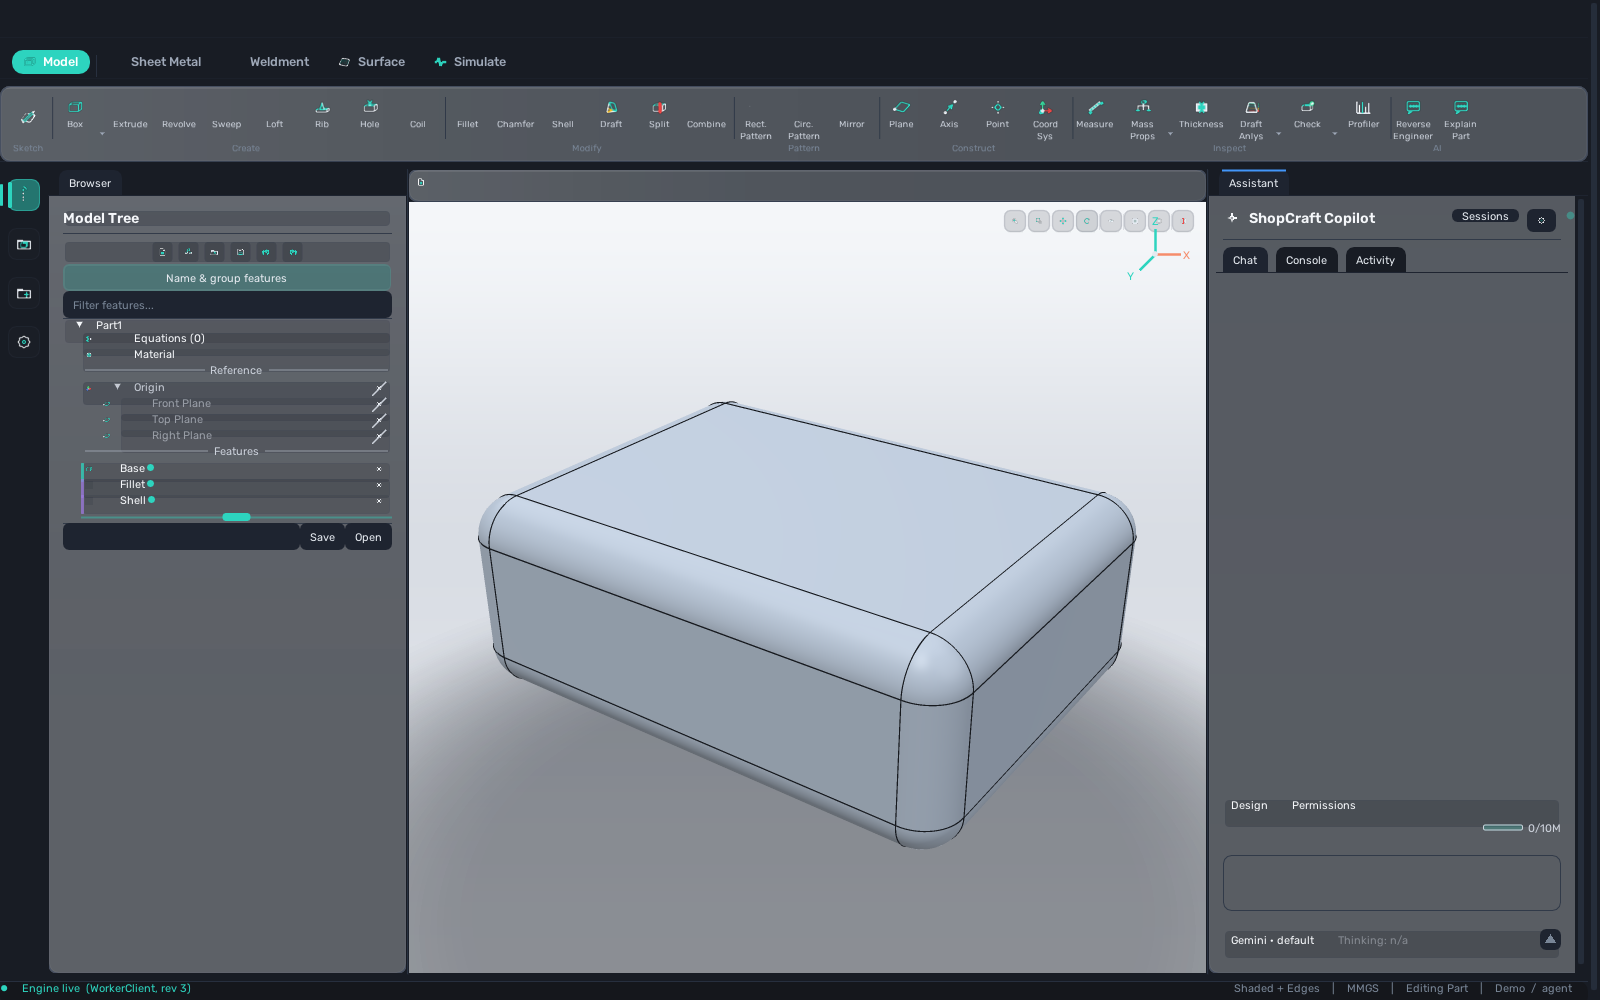
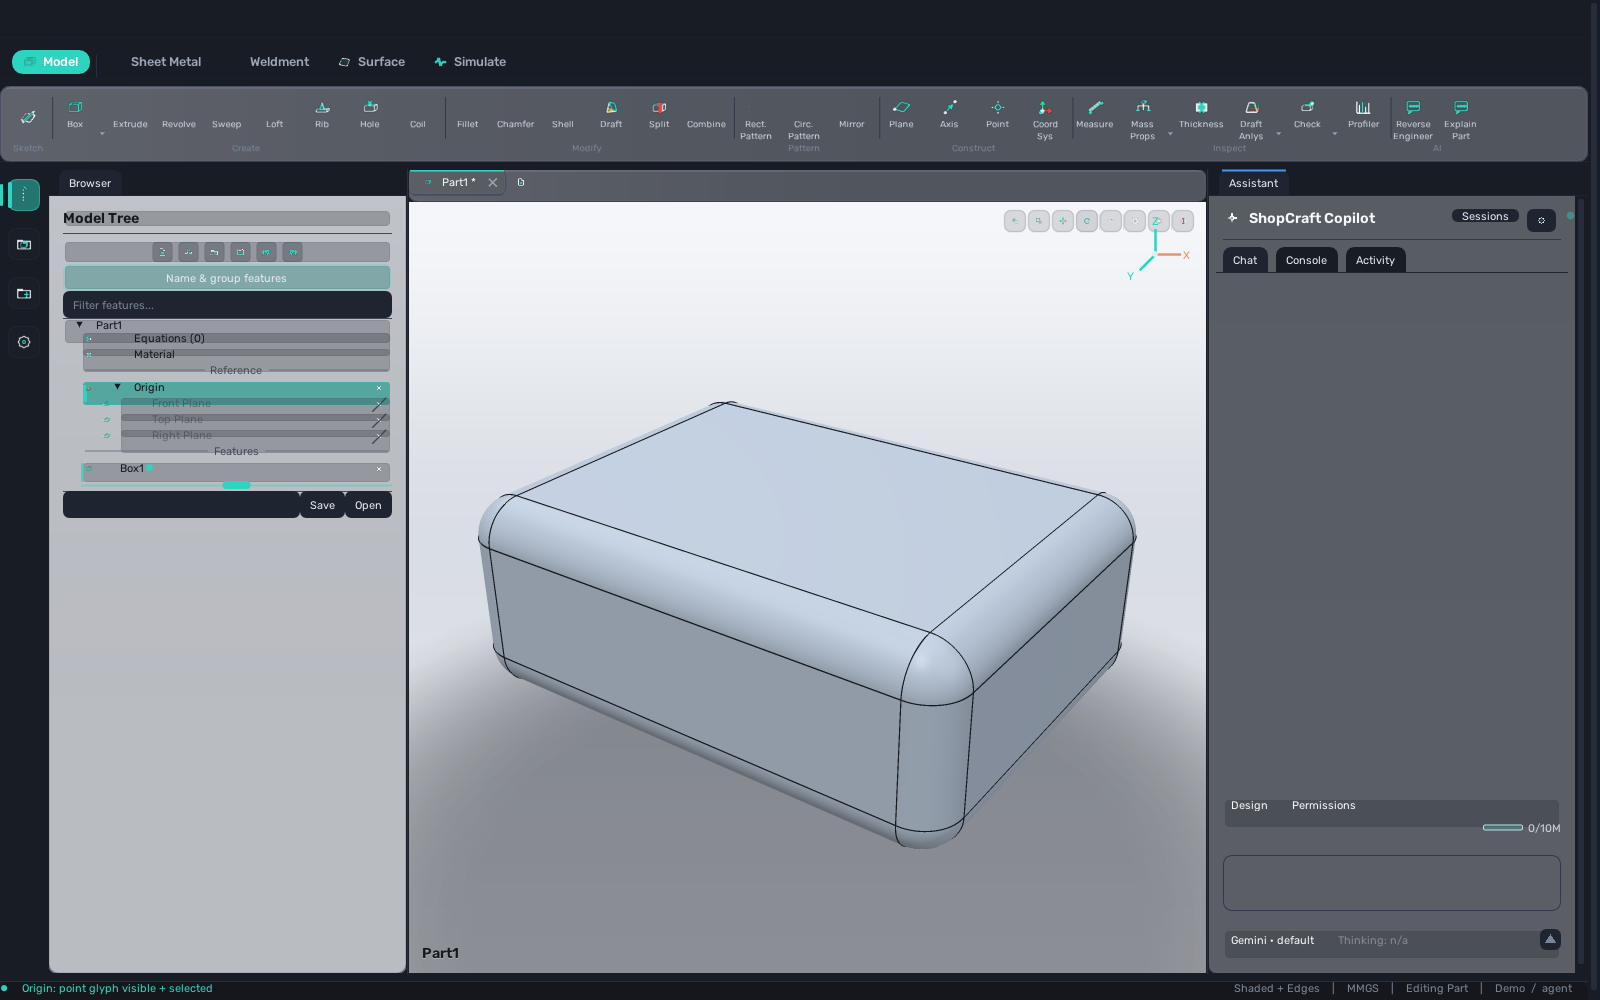
feat(T-BL37): add AI_CAD_SHOT=origin scenario + engine-live evidence shots
Adds `featureTreeUnhideOrigin()` + `featureTreeSelectOrigin()` setter pair
so the headless shot machine can drive the origin point glyph into
visible+selected state. Wires `AI_CAD_SHOT=origin` in scenarios.h/cpp:
creates a 80x60x40 box (engine live, rev=1), then unhides and selects
the origin point datum, capturing the selection highlight on the Origin
row in the feature tree.

Evidence screenshots (dark + light, engine ATTACHED, box ok=1):
- docs/sessions/assets/bl37_dark_origin.png
- docs/sessions/assets/bl37_light_origin.png
Both show Origin row teal-highlighted (selected), engine-live 3D viewport,
status bar "Origin: point glyph visible + selected".

Changed region(s): [[0.0312, 0.186, 0.2812, 0.992], [0.25, 0.155, 0.3125, 0.186]]

diff --git a/ui/imgui/src/ui/scenarios.cpp b/ui/imgui/src/ui/scenarios.cpp
@@ -3,6 +3,7 @@
 
 #include "ui/viewport.h"
 
+#include "ui/feature_tree.h"        // T-BL37: featureTreeUnhideOrigin/featureTreeSelectOrigin
 #include "ui/ribbon.h"
 #include "ui/settings_modal.h"
 #include "ui/file_explorer.h"
@@ -241,6 +242,7 @@ int ShotConfig::captureFrameBudget() const {
     if (wantRequirements && !requirementsShotDone) return 150;  // T-U5
     if (wantTransparency && !transparencyShotDone) return 150;  // T-U8
     if (wantSimStudies && !simStudiesShotDone) return 150;
+    if (wantOrigin) return originShotDone ? 10 : 30;  // T-BL37
     if (wantTree) return treeShotDone ? 10 : 30;
     if (wantEquations) return equationsShotDone ? 10 : 30;
     if (wantPartsBrowser) return partsBrowserShotDone ? 10 : 30;
@@ -269,6 +271,7 @@ void configureShot(app::AppState& st, ShotConfig& cfg, const char* shotEnv,
     cfg.wantPlan = eq("plan");
     cfg.wantPick = eq("pick");
     cfg.wantRibbon = eq("ribbon");
+    cfg.wantOrigin = eq("origin");   // T-BL37: origin point glyph visible + selected
     cfg.wantTree = eq("tree");
     cfg.wantExplorer = eq("explorer");
     cfg.wantEquations = eq("equations");
@@ -393,6 +396,34 @@ void scenarioTick(app::AppState& st) {
 void ScenarioRunner::tickSimpleShots(ShotConfig& cfg, app::AppState& st) {
     if (!st.workerStarted) st.tryStartWorker();
     if (!st.workerStarted) return;
+
+    // T-BL37: origin glyph rendered + selected evidence shot (AI_CAD_SHOT=origin).
+    // Creates a minimal doc so the engine is live and the Reference/Origin row populates,
+    // then unhides the origin point glyph and selects it so the screenshot shows both.
+    if (cfg.wantOrigin && !cfg.originShotDone) {
+        cfg.originShotDone = true;
+        std::string err;
+        if (st.docMirror.newPart(st.worker, err)) {
+            st.addDocTab(false);
+            auto r1 = st.docMirror.applyOps(st.worker, nlohmann::json::array({
+                {{"op","add_feature"},{"feature",{
+                    {"type","box"},{"name","Box1"},
+                    {"params",{{"length",dim(80)},{"width",dim(60)},{"height",dim(40)}}}
+                }}}
+            }));
+            loadMesh(st, r1.aicm_path);
+            std::printf("origin: box ok=%d rev=%d\n", (int)r1.ok, r1.revision);
+        } else {
+            std::printf("origin: doc_new failed: %s\n", err.c_str());
+        }
+        // Un-hide the origin point glyph and select it — these drive syncRefDatums()
+        // in viewport.cpp which calls r.setHiddenDatums / r.setSelectedDatumId each frame.
+        featureTreeUnhideOrigin();
+        featureTreeSelectOrigin();
+        st.status = "Origin: point glyph visible + selected";
+        std::printf("origin: glyph unhidden + selected\n");
+        std::fflush(stdout);
+    }
 
     if (cfg.wantTree && !cfg.treeShotDone) {
         cfg.treeShotDone = true;

diff --git a/ui/imgui/src/ui/feature_tree.cpp b/ui/imgui/src/ui/feature_tree.cpp
@@ -3428,6 +3428,16 @@ const std::unordered_set<std::string>& featureTreeHiddenFeatures() {
 const std::string& featureTreeSelectedFeatureId() {
     return detail::g_fm.selectedFeatureId;
 }
+// T-BL37: scenario setters — let the headless shot machine drive origin visible+selected
+// state so evidence screenshots actually show the rendered+highlighted origin glyph.
+void featureTreeUnhideOrigin() {
+    detail::g_fm.hiddenFeatures.erase("point.origin");
+}
+void featureTreeSelectOrigin() {
+    detail::g_fm.selectedFeatureId = "point.origin";
+    if (detail::g_fm.app)
+        detail::g_fm.app->selectedFeature = "point.origin";
+}
 void pollAiCadHandoff(app::AppState& st) {
     auto& fm = bindFm(st);
     detail::pollAiCadHandoff(fm);

diff --git a/ui/imgui/src/ui/feature_tree.h b/ui/imgui/src/ui/feature_tree.h
@@ -32,6 +32,10 @@ std::string featureTreeActivePath();
 // primary selected id) for the viewport's reference-datum push.
 const std::unordered_set<std::string>& featureTreeHiddenFeatures();
 const std::string& featureTreeSelectedFeatureId();
+// T-BL37: scenario setters — used by AI_CAD_SHOT=origin to drive visible+selected state
+// so the headless evidence screenshot shows the rendered+highlighted origin glyph.
+void featureTreeUnhideOrigin();
+void featureTreeSelectOrigin();
 
 void pollAiCadHandoff(app::AppState& st);
 

diff --git a/ui/imgui/src/ui/scenarios.h b/ui/imgui/src/ui/scenarios.h
@@ -34,6 +34,8 @@ struct ShotConfig {
     bool wantGallery = false;                 // T-U9: sample gallery (loads from disk, no RPC wait)
 
     // Worker one-shot shots (fire once when workerStarted)
+    bool wantOrigin = false;        // T-BL37: origin glyph visible + selected (AI_CAD_SHOT=origin)
+    bool originShotDone = false;
     bool wantTree = false;
     bool treeShotDone = false;
     bool wantEquations = false;
